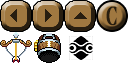
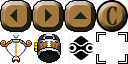
menu menu menuuuu

diff --git a/King of Thieves/gearsVGE/Navigation/MenuState.cs b/King of Thieves/gearsVGE/Navigation/MenuState.cs
@@ -211,14 +211,18 @@ namespace Gears.Navigation
             blank = new Texture2D(Master.GetGame().GraphicsDevice, 1, 1, false, SurfaceFormat.Color);
             blank.SetData(new[] { Color.White });
 
-            foreach (MenuElement element in this._menu.MenuElements) {
-                if (element.GetFont() == null && element.SpriteFont != null)
+            if (_menu != null)
+            {
+                foreach (MenuElement element in this._menu.MenuElements)
                 {
-                    element.SetFont(Master.GetGame().Content.Load<SpriteFont>(element.SpriteFont));
-                }
-                if (element.GetTexture() == null && element.Texture2D != null)
-                {
-                    element.SetTexture(Master.GetGame().Content.Load<Texture2D>(element.Texture2D));
+                    if (element.GetFont() == null && element.SpriteFont != null)
+                    {
+                        element.SetFont(Master.GetGame().Content.Load<SpriteFont>(element.SpriteFont));
+                    }
+                    if (element.GetTexture() == null && element.Texture2D != null)
+                    {
+                        element.SetTexture(Master.GetGame().Content.Load<Texture2D>(element.Texture2D));
+                    }
                 }
             }
         }
@@ -254,6 +258,14 @@ namespace Gears.Navigation
         {
             InactivateState();
             _menu.GetSelectableMenuElements()[_menu.GetActiveMenuIndex()].ThrowPushEvent();
+        }
+
+        public int activeMenuIndex
+        {
+            get
+            {
+                return _menu.GetActiveMenuIndex();
+            }
         }
 
         /// <summary>
@@ -389,6 +401,12 @@ namespace Gears.Navigation
             {
                 ActivateState();
             }
+        }
+
+        public void swapMenu(Menu menu)
+        {
+            this._menu = menu;
+            this.InitializeLocal();
         }
     }
 }

diff --git a/King of Thieves/usr/local/GameMenu/CPauseMenuElement.cs b/King of Thieves/usr/local/GameMenu/CPauseMenuElement.cs
@@ -1,0 +1,63 @@
+using System;
+using System.Collections.Generic;
+using System.Linq;
+using System.Text;
+using Gears.Navigation;
+using Microsoft.Xna.Framework;
+
+namespace King_of_Thieves.usr.local.GameMenu
+{
+    class CPauseMenuElement : MenuElement 
+    {
+        private int _rightNeighbor = _NO_NEIGHBOR;
+        private int _upNeighbor = _NO_NEIGHBOR;
+        private int _downNeighbor = _NO_NEIGHBOR;
+        private int _leftNeighbor = _NO_NEIGHBOR;
+
+        private const int _NO_NEIGHBOR = -1;
+        private Vector2 _cursorPosition = Vector2.Zero;
+
+        public CPauseMenuElement(Vector2 cursorPosition, int rightNeighbor = -1, int leftNeighbor = -1, int upNeighbor = -1, int downNeighbor = -1) :
+            base()
+        {
+            _rightNeighbor = rightNeighbor;
+            _leftNeighbor = leftNeighbor;
+            _upNeighbor = upNeighbor;
+            _downNeighbor = downNeighbor;
+            _cursorPosition = cursorPosition;
+
+        }
+
+        public int rightNeighbor
+        {
+            get
+            {
+                return _rightNeighbor;
+            }
+        }
+
+        public int leftNeighbor
+        {
+            get
+            {
+                return _leftNeighbor;
+            }
+        }
+
+        public int upNeighbor
+        {
+            get
+            {
+                return _upNeighbor;
+            }
+        }
+
+        public int downNeighbor
+        {
+            get
+            {
+                return _downNeighbor;
+            }
+        }
+    }
+}

diff --git a/King of Thieves/Graphics/CTextures.cs b/King of Thieves/Graphics/CTextures.cs
@@ -83,6 +83,7 @@ namespace King_of_Thieves.Graphics
         public const string HUD_BOMB_CANNON = HUD + "bombCannon";
         public const string HUD_RUPEES = HUD + "rupees";
         public const string HUD_ACTION = HUD + "action";
+        public const string HUD_PAUSE_CURSOR = HUD + "pauseCursor";
 
         public const string HUD_ITEM_SCREEN = HUD + "itemScreen";
         public const string HUD_QUEST_SCREEN = HUD + "questScreen";
@@ -102,6 +103,7 @@ namespace King_of_Thieves.Graphics
         public const string SOURCE_SHIELDS = "shields";
         public const string SOURCE_HUD = "hud";
         public const string SOURCE_MENU = "menu";
+        
 
         public static void init(ContentManager content)
         {
@@ -268,6 +270,7 @@ namespace King_of_Thieves.Graphics
             textures.Add(HUD_RUPEES, new CTextureAtlas("health", 16, 16, 1, "0:1", "0:1", 0));
             textures.Add(HUD_ITEM_SCREEN, new CTextureAtlas(SOURCE_MENU, 320, 240, 0, "0:0", "0:0", 0));
             textures.Add(HUD_QUEST_SCREEN, new CTextureAtlas(SOURCE_MENU, 320, 240, 0, "1:0", "1:0", 0));
+            textures.Add(HUD_PAUSE_CURSOR, new CTextureAtlas("hudButtons", 32, 32, 0, "3:1", "3:1", 0));
 
             //drops
             textures.Add(DROPS_HEART, new CTextureAtlas("drops:drops01", 16, 16, 1, "0:0", "0:0"));

diff --git a/King of Thieves/usr/local/GameMenu/CPauseMenu.cs b/King of Thieves/usr/local/GameMenu/CPauseMenu.cs
@@ -9,17 +9,16 @@ using Microsoft.Xna.Framework.Graphics;
 
 namespace King_of_Thieves.usr.local.GameMenu
 {
-    class CPauseMenu : MenuReadyGameState
+    class CPauseMenu : MenuState
     {
         private Actors.Menu.CPauseBackdrop[] _pauseBackdrops = new Actors.Menu.CPauseBackdrop[2];
-        private Texture2D _backDrop = null;
         private bool _justOpened = true;
 
-        public CPauseMenu() :
-            base()
+        public CPauseMenu(Menu itemMenu, Menu questMenu) :
+            base(itemMenu)
         {
-            _pauseBackdrops[0] = new Actors.Menu.CPauseBackdrop(Graphics.CTextures.HUD_ITEM_SCREEN, 0);
-            _pauseBackdrops[1] = new Actors.Menu.CPauseBackdrop(Graphics.CTextures.HUD_QUEST_SCREEN, -1);
+            _pauseBackdrops[0] = new Actors.Menu.CPauseBackdrop(Graphics.CTextures.HUD_ITEM_SCREEN, 0, itemMenu);
+            _pauseBackdrops[1] = new Actors.Menu.CPauseBackdrop(Graphics.CTextures.HUD_QUEST_SCREEN, -1, questMenu);
             CMasterControl.audioPlayer.stopAllSfx();
             CMasterControl.audioPlayer.addSfx(CMasterControl.audioPlayer.soundBank["menu:openMenu"]);
             

diff --git a/King of Thieves/Actors/Menu/CPauseBackdrop.cs b/King of Thieves/Actors/Menu/CPauseBackdrop.cs
@@ -13,8 +13,10 @@ namespace King_of_Thieves.Actors.Menu
         // 1: right
         private int _shiftIndex = 0;
         private const float _SHIFT_VELOCITY = 11.05f;
+        private Gears.Navigation.Menu _menu;
+        private Menu.CMenuCursor _cursor = new CMenuCursor();
 
-        public CPauseBackdrop(string background,int menuPosition) :
+        public CPauseBackdrop(string background,int menuPosition,Gears.Navigation.Menu menu) :
             base()
         {
             _shiftIndex = menuPosition;
@@ -30,6 +32,13 @@ namespace King_of_Thieves.Actors.Menu
 
             swapImage(background);
             _state = ACTOR_STATES.IDLE;
+            _menu = menu;
+        }
+
+        public override void drawMe(bool useOverlay = false)
+        {
+            base.drawMe(useOverlay);
+            _cursor.drawMe();
         }
 
         public override void keyRelease(object sender)
@@ -82,6 +91,7 @@ namespace King_of_Thieves.Actors.Menu
         {
             base.update(gameTime);
             _fixedPosition.X += _velocity.X;
+            _cursor.update(gameTime);
         }
 
         public int shiftIndex

diff --git a/King of Thieves/Actors/Player/CPlayer.cs b/King of Thieves/Actors/Player/CPlayer.cs
@@ -47,7 +47,7 @@ namespace King_of_Thieves.Actors.Player
             
             image = _imageIndex["PlayerWalkDown"];
             _velocity = new Vector2(0, 0);
-            startTimer5(30);
+            startTimer5(15);
         }
 
         public override void init(string name, Vector2 position, string dataType, int compAddress, params string[] additional)
@@ -583,9 +583,7 @@ namespace King_of_Thieves.Actors.Player
             }
 
             if (_canOpenManu && input.keysReleased.Contains(Keys.Enter))
-                Master.Push(new usr.local.GameMenu.CPauseMenu());
-
-
+                Master.Push(new usr.local.GameMenu.CPauseMenu(CMasterControl.itemPauseMenu(), CMasterControl.questPauseMenu()));
         }
 
 

diff --git a/King of Thieves/CMasterControl.cs b/King of Thieves/CMasterControl.cs
@@ -4,6 +4,7 @@ using System.Linq;
 using System.Text;
 using Microsoft.Xna.Framework;
 using Microsoft.Xna.Framework.Content;
+using Gears.Navigation;
 
 namespace King_of_Thieves
 {
@@ -18,6 +19,18 @@ namespace King_of_Thieves
         public static ContentManager glblContent;
         public static Input.CInput glblInput;
         public static Graphics.CCamera camera = new Graphics.CCamera();
+
+        //menu creation functions
+        public static Menu itemPauseMenu()
+        {
+            return new Menu();
+        }
+
+        //menu creation functions
+        public static Menu questPauseMenu()
+        {
+            return new Menu();
+        }
         
     }
 }

diff --git a/King of Thieves/Actors/Menu/CMenuCursor.cs b/King of Thieves/Actors/Menu/CMenuCursor.cs
@@ -4,12 +4,19 @@ using System.Linq;
 using System.Text;
 using Microsoft.Xna.Framework;
 using Microsoft.Xna.Framework.Graphics;
+using King_of_Thieves.Actors.HUD;
 
 namespace King_of_Thieves.Actors.Menu
 {
-    //class CMenuCursor : CActor
-    //{
+    class CMenuCursor : CHUDElement
+    {
+        public CMenuCursor() :
+            base()
+        {
+            _imageIndex.Add(Graphics.CTextures.HUD_PAUSE_CURSOR, new Graphics.CSprite(Graphics.CTextures.HUD_PAUSE_CURSOR));
+            swapImage(Graphics.CTextures.HUD_PAUSE_CURSOR);
+            _fixedPosition = new Vector2(35, 35);
+        }
 
-
-    //}
+    }
 }
